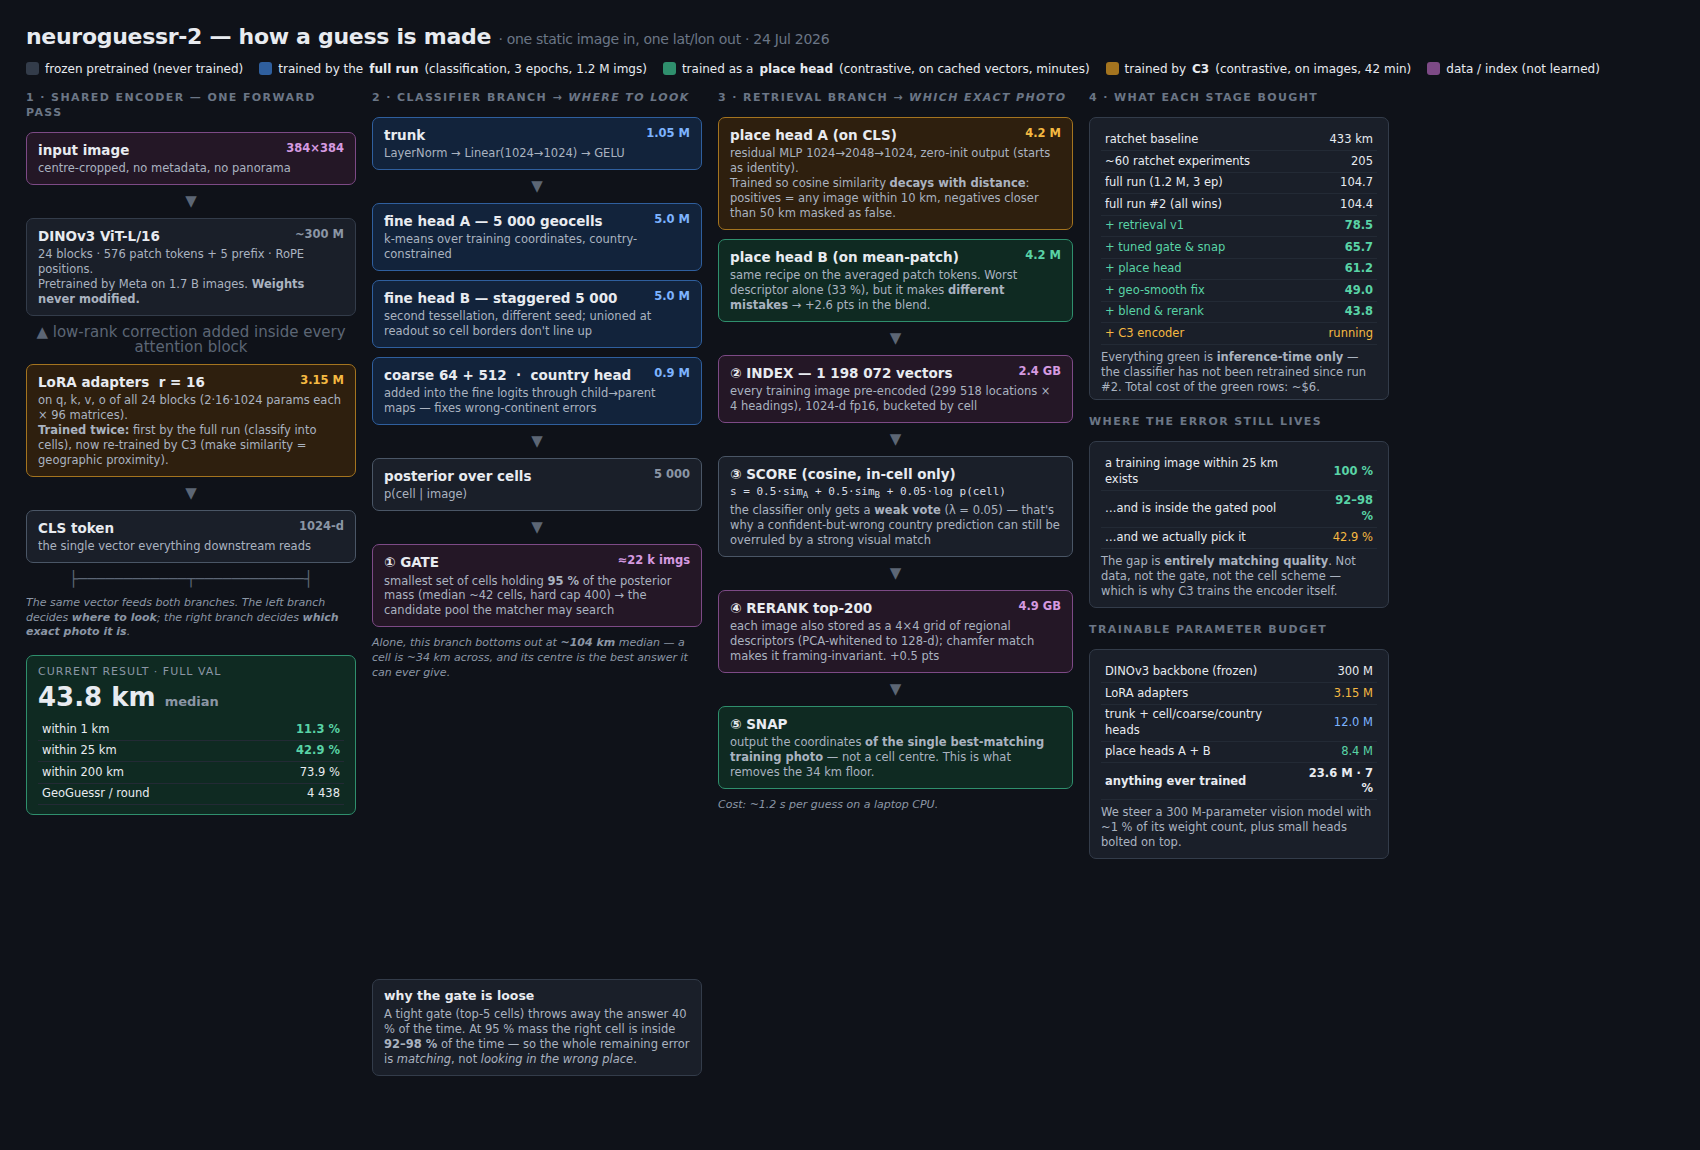
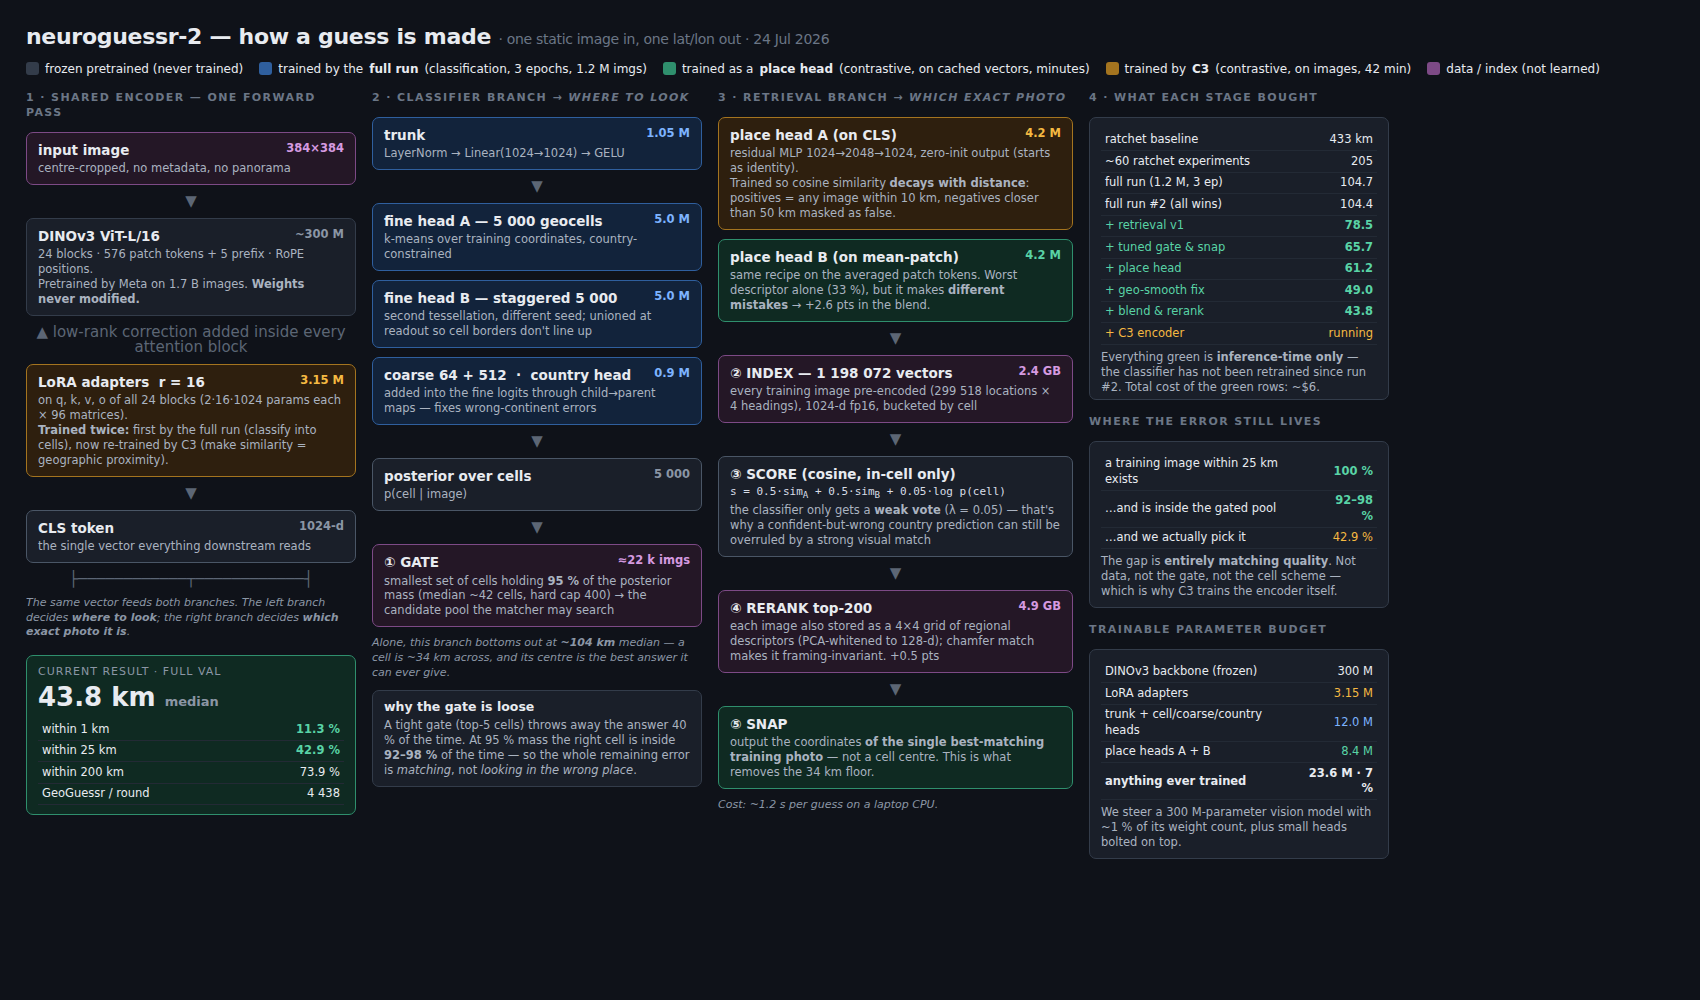
docs: architecture visualisation layout fix

Changed region(s): [[0.0, 0.0, 0.9353, 0.868], [0.2182, 0.837, 0.4053, 0.93]]

diff --git a/docs/architecture.html b/docs/architecture.html
@@ -2,14 +2,14 @@
 <html><head><meta charset="utf-8"><title>neuroguessr-2 architecture</title>
 <style>
   * { box-sizing: border-box; margin: 0; }
-  body { width: 1700px; height: 1150px; padding: 22px 26px; background: #0f1219;
+  body { width: 1700px; height: 1000px; padding: 22px 26px; background: #0f1219;
          color: #e8ebf0; font: 13px/1.35 "DejaVu Sans", system-ui, sans-serif; }
   h1 { font-size: 22px; letter-spacing: -.3px; }
   h1 span { color: #6b7686; font-weight: 400; font-size: 14px; }
   .legend { display: flex; gap: 16px; margin: 9px 0 14px; font-size: 12px; align-items: center; }
   .chip { display: flex; align-items: center; gap: 6px; }
   .sw { width: 13px; height: 13px; border-radius: 3px; }
-  .grid { display: flex; gap: 16px; height: 985px; }
+  .grid { display: flex; gap: 16px; align-items: flex-start; }
   .col { display: flex; flex-direction: column; gap: 9px; }
   .box { border-radius: 7px; padding: 8px 11px; border: 1px solid; }
   .t { font-weight: 700; font-size: 13.5px; }
@@ -106,7 +106,7 @@
       (median ~42 cells, hard cap 400) → the candidate pool the matcher may search</div></div>
     <div class="note">Alone, this branch bottoms out at <b>~104 km</b> median — a cell is ~34 km
       across, and its centre is the best answer it can ever give.</div>
-    <div class="box frozen" style="margin-top:auto"><div class="t" style="font-size:12.5px">
+    <div class="box frozen"><div class="t" style="font-size:12.5px">
       why the gate is loose</div>
       <div class="d">A tight gate (top-5 cells) throws away the answer 40 % of the time.
       At 95 % mass the right cell is inside <b>92–98 %</b> of the time — so the whole
